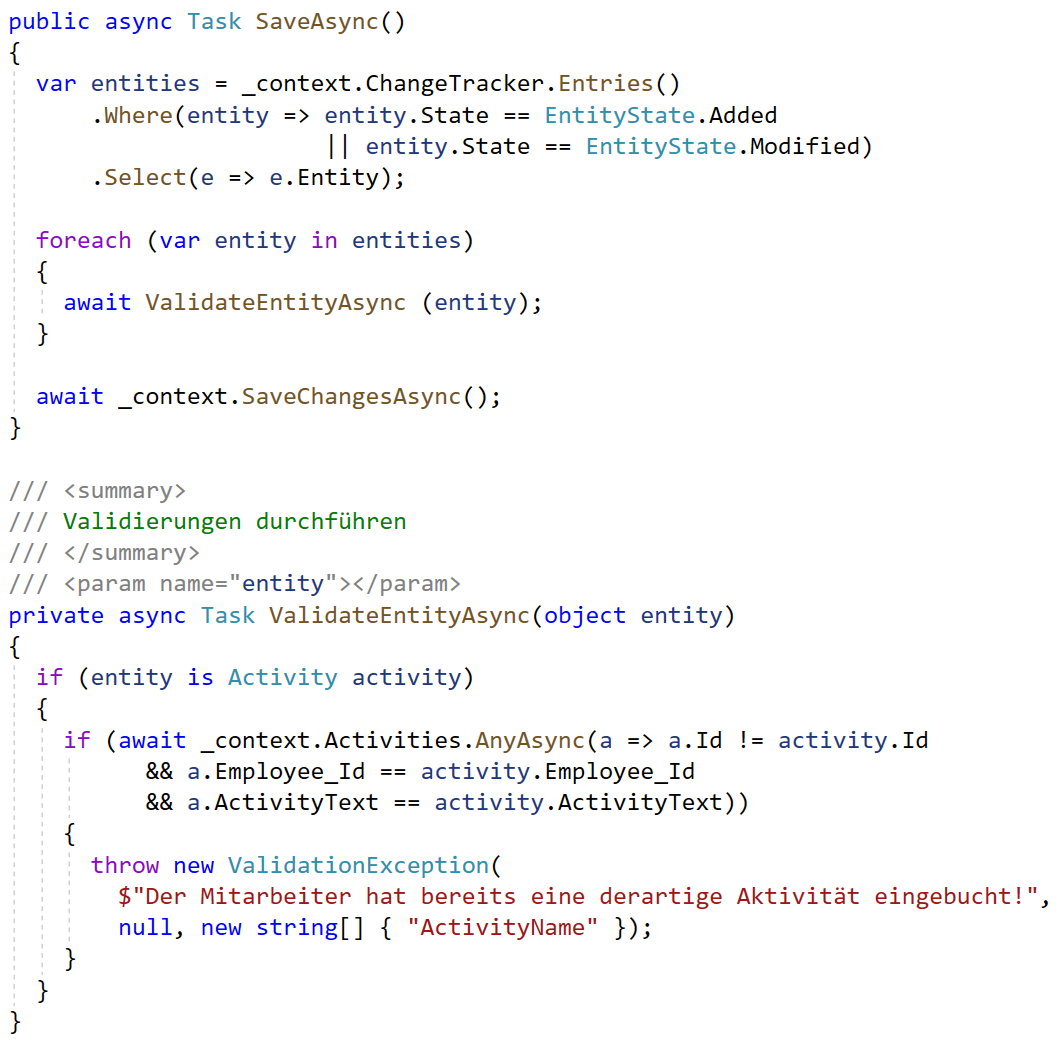
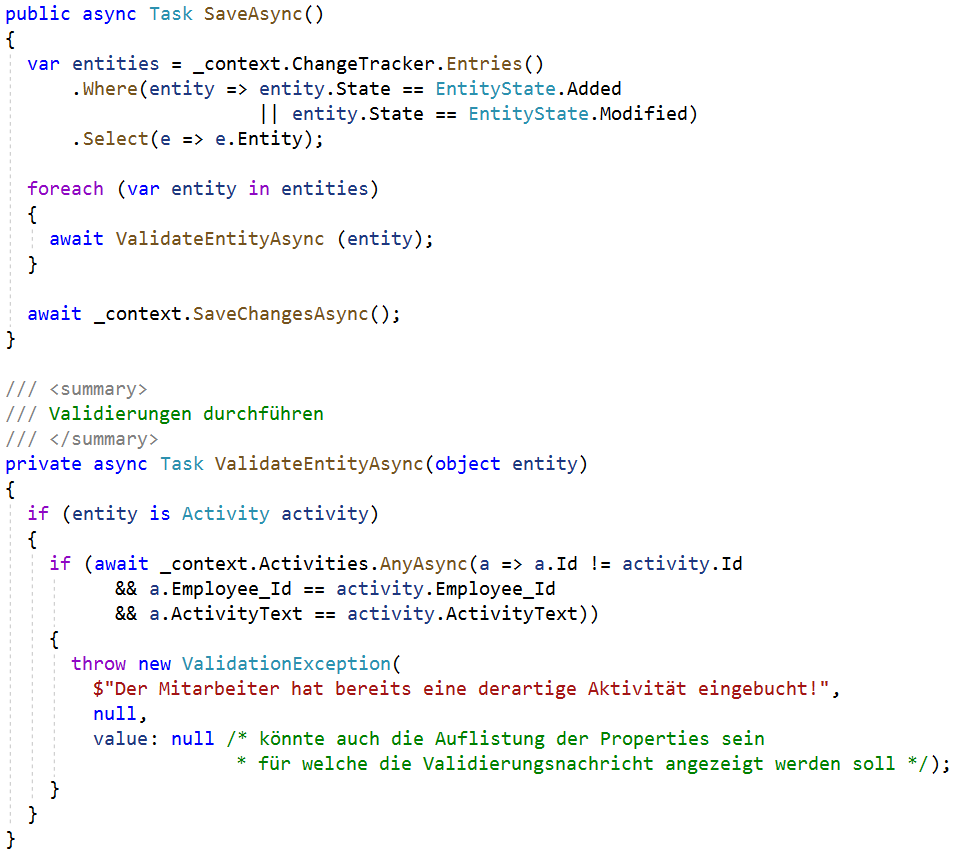
Schleifen

diff --git a/ActReport.Persistence/UnitOfWork.cs b/ActReport.Persistence/UnitOfWork.cs
@@ -58,7 +58,6 @@ namespace ActReport.Persistence
     /// <summary>
     /// Validierungen durchführen
     /// </summary>
-    /// <param name="entity"></param>
     private async Task ValidateEntityAsync(object entity)
     {
       if (entity is Activity activity)
@@ -69,7 +68,9 @@ namespace ActReport.Persistence
         {
           throw new ValidationException(
             $"Der Mitarbeiter hat bereits eine derartige Aktivität eingebucht!", 
-            null, new string[] { "ActivityText" });
+            null, 
+            value: null /* könnte auch die Auflistung der Properties sein 
+                         * für welche die Validierungsnachricht angezeigt werden soll */);
         }
       }
     }
